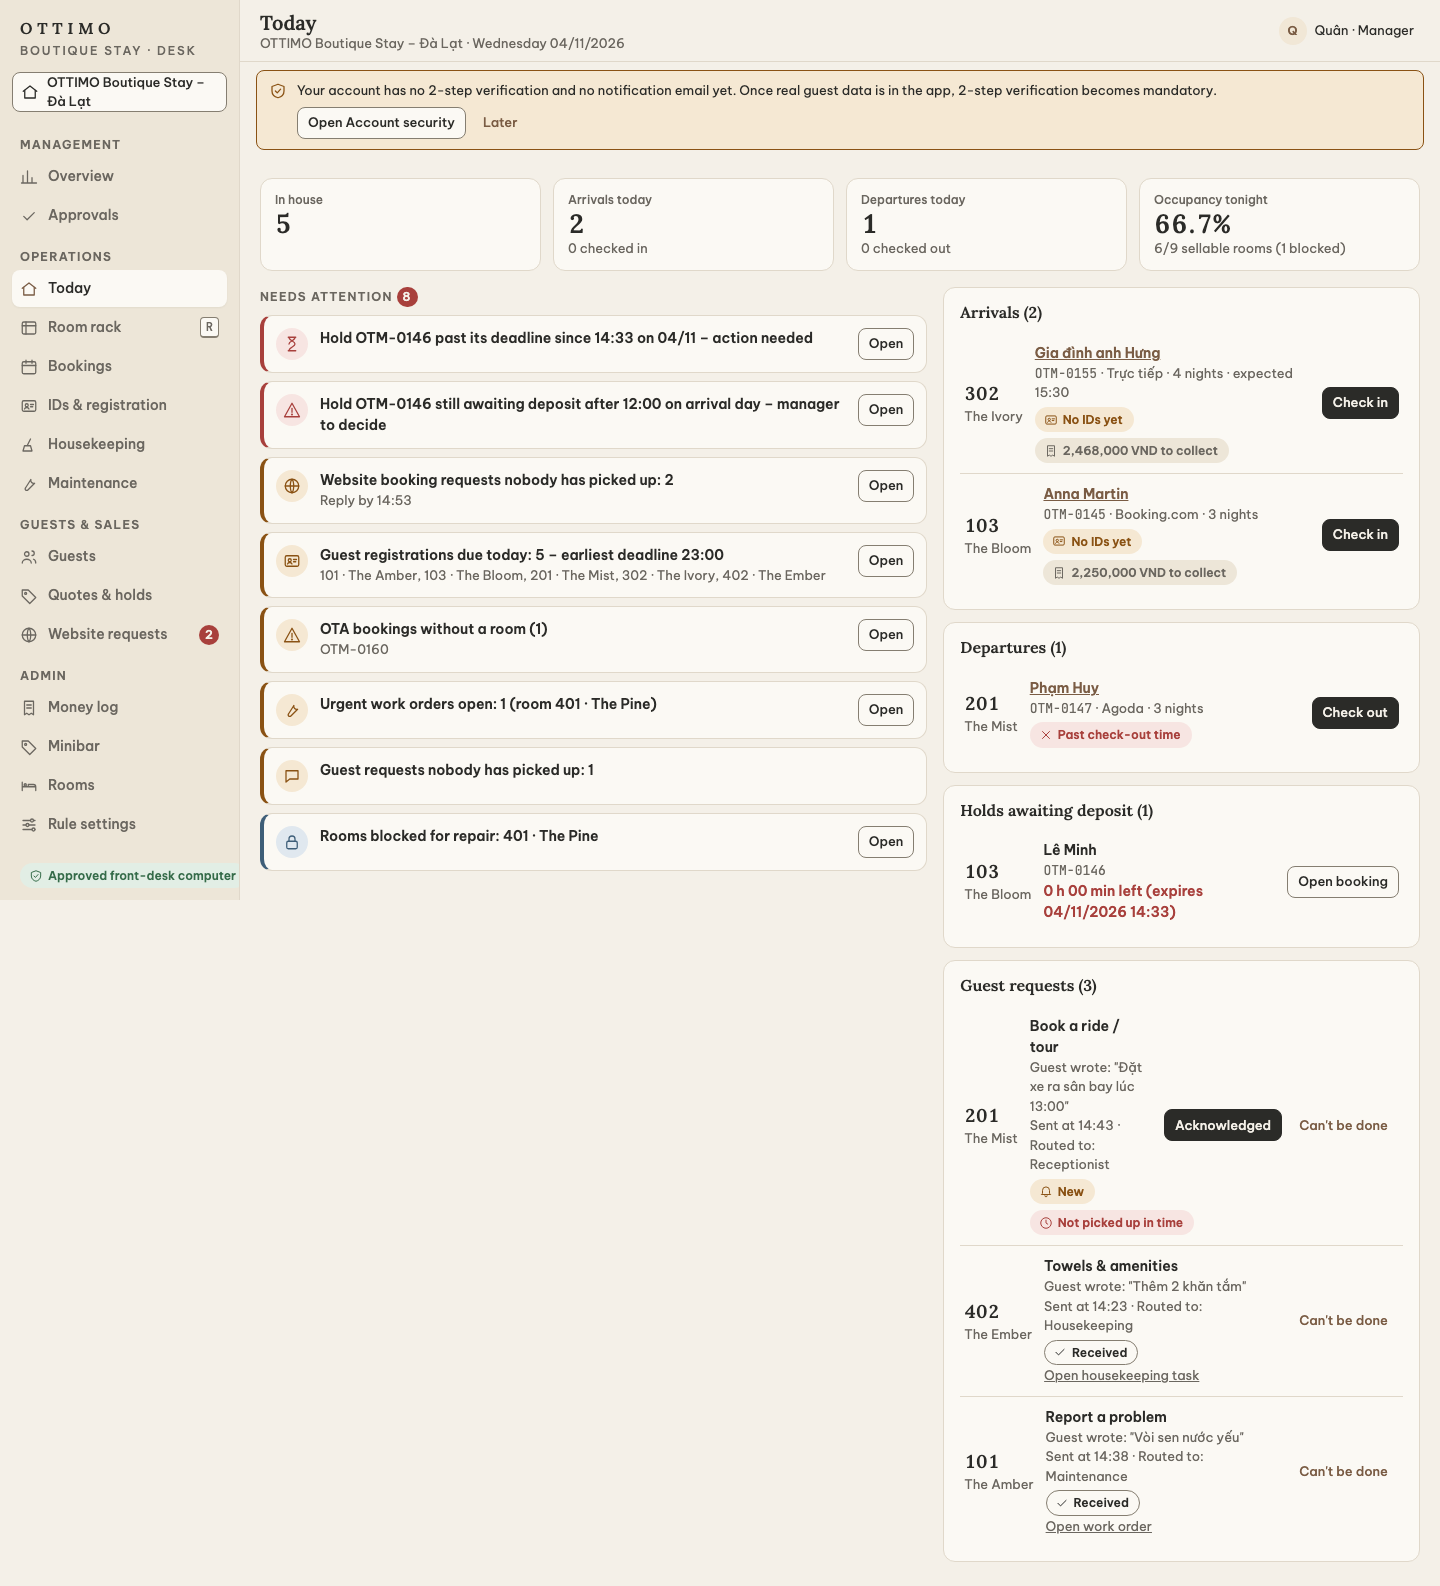
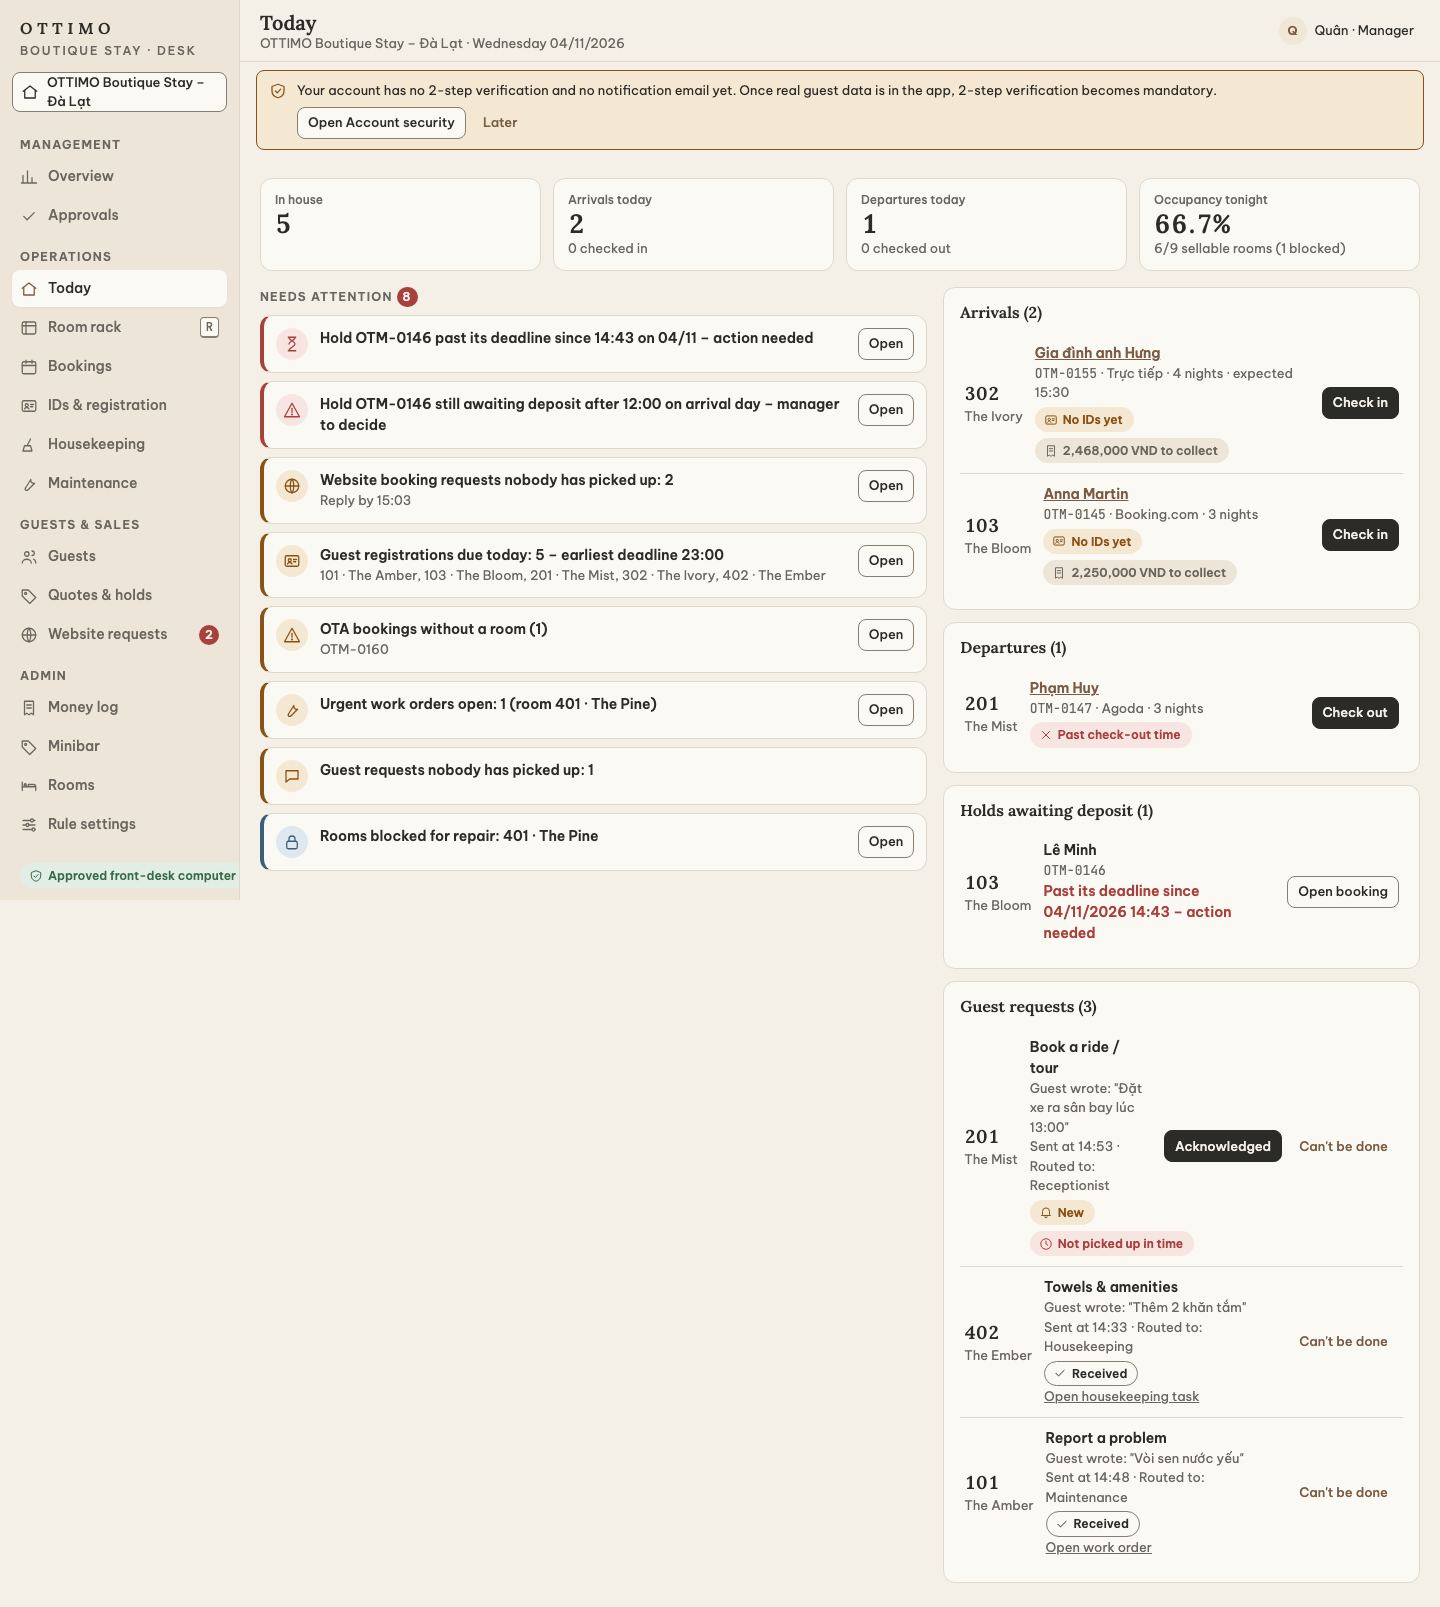
round-4: Phản hồi & sửa – FE-B P4-40 pass 3 (UXD r2 cards 06/07)
- 07: Today hold row past its deadline shows today.hold_overdue_since
  (countdown bad) instead of "0 h 00 min left".
- 06: deposit dialog hides error.DEPOSIT_INSUFFICIENT once the manager
  accepts the shortfall.
- Tests for both; retaken today-mgr and deposit-shortfall-mgr screenshots
  (mock data only); FE-P4-40.md pass 3.

diff --git a/product/apps/admin-web/src/pages/TodayPage.tsx b/product/apps/admin-web/src/pages/TodayPage.tsx
@@ -487,9 +487,16 @@ function HoldRow({ r }: { r: ReservationSummary }) {
           <Code>{r.code}</Code>
         </div>
         {left ? (
-          <span className={`countdown ${left.ms < 2 * 3_600_000 ? 'bad' : 'warn'}`}>
-            {t('today.hold_left', { h: left.h, m: left.m, at: dateTime(r.holdExpiresAt) })}
-          </span>
+          left.ms === 0 ? (
+            // FB-R4-UXD-FE-P440-07: a hold WITH money stays past its deadline (BUG-R3-044) – never "0 h 00 min left".
+            <span className="countdown bad">
+              {t('today.hold_overdue_since', { at: dateTime(r.holdExpiresAt) })}
+            </span>
+          ) : (
+            <span className={`countdown ${left.ms < 2 * 3_600_000 ? 'bad' : 'warn'}`}>
+              {t('today.hold_left', { h: left.h, m: left.m, at: dateTime(r.holdExpiresAt) })}
+            </span>
+          )
         ) : null}
       </div>
       <Link className="btn sm" to={`/reservations/${r.id}`}>

diff --git a/product/apps/admin-web/src/pages/reservations/ReservationDialogs.tsx b/product/apps/admin-web/src/pages/reservations/ReservationDialogs.tsx
@@ -751,7 +751,8 @@ export function DepositDialog(props: DialogBase) {
           />
         </div>
       ) : null}
-      {paidBefore > 0 && missing > 0 ? (
+      {paidBefore > 0 && missing > 0 && !accepting ? (
+        // FB-R4-UXD-FE-P440-06: once the manager accepts the shortfall, "record the rest" no longer applies.
         <Alert tone="warn" role="status">
           {t('error.DEPOSIT_INSUFFICIENT', { required: vnd(need), paid: vnd(paidBefore) })}
         </Alert>

diff --git a/rounds/round-04/responses/FE-P4-40.md b/rounds/round-04/responses/FE-P4-40.md
@@ -46,3 +46,19 @@ Cách chụp: Playwright trên dev server ở chế độ mock. Mock chung đang
 - `vitest` admin-web: 73 tệp, 839/839 qua. Lần chạy đầu có 2 ca hỏng do tải song song nặng (`s2-fix` A-20, `s4-144-fea` minibar), chạy riêng thì qua, chạy lại cả bộ thì qua hết. Đã ghi ở báo cáo P4-40 lượt 1 là có sẵn trên main.
 - `tsc --noEmit` admin-web: sạch. Lưu ý: sau merge cần `pnpm install` và build `@ottimo/contracts` (gói mới trên main).
 - `eslint .` (product): 0 lỗi, 3 cảnh báo có sẵn. `prettier --check`: sạch.
+
+## Lượt 3 – UXD r2 (`UXD-on-v104-p4-40-r2.md`), 04/11/2026
+- Merge `origin/v104/uxd-hold-overdue-key` @ `9ab718d5` vào `v104/fe-holds`, không xung đột. Chạy lại `gen_strings.py`: tệp sinh không đổi, có khóa `today.hold_overdue_since`.
+
+| ID | Mức | Trạng thái mới | Ghi chú |
+|---|---|---|---|
+| FB-R4-UXD-FE-P440-06 | Minor | Done (phần chính) / Deferred (phần tùy chọn) | Hộp Xác nhận cọc ẩn khung `error.DEPOSIT_INSUFFICIENT` khi quản lý đã tick **Chấp nhận cọc thiếu** (`!accepting`). Khi chưa tick thì giữ như cũ. Thêm 1 ca test: có khung trước khi tick, không còn khung sau khi tick. Phần tùy chọn (số có đơn vị) **chưa làm**: khóa này còn dùng ở đường lỗi máy chủ `rsvErrorText` (422) và `reservation.test.tsx` đang so số không đơn vị. Đổi một chỗ thì hai câu cùng khóa sẽ hiện khác nhau. Nếu UXD muốn có đơn vị, cần đổi cả hai chỗ và ghi chú khóa trong một lượt riêng. |
+| FB-R4-UXD-FE-P440-07 | Minor | Done | `TodayPage.tsx › HoldRow`: khi `left.ms === 0` thì hiện `<span className="countdown bad">` với `today.hold_overdue_since` (`at` = `dateTime(r.holdExpiresAt)`), thay `today.hold_left`. Thêm 1 ca test: hiện câu "Quá hạn từ …" với tông `bad`, không còn "còn … giờ". |
+
+### Ảnh chụp lại (dữ liệu giả của mock, cùng script lượt 2), cần QA kiểm che lại
+- `rounds/round-04/outputs/FE/screenshots/v1.0.4-p4-40-today-mgr-{vi,en}-{1366,1440}.png` (4 ảnh, thẻ 07)
+- `rounds/round-04/outputs/FE/screenshots/v1.0.4-p4-40-deposit-shortfall-mgr-{vi,en}-{1366,1440}.png` (4 ảnh, thẻ 06)
+
+### Kiểm tra lượt 3
+- `vitest` admin-web: 73 tệp, 841/841 qua. Hai ca mới đều đỏ khi chạy trên mã cũ.
+- `tsc --noEmit`: sạch. `eslint .`: 0 lỗi. `prettier --check`: sạch.
